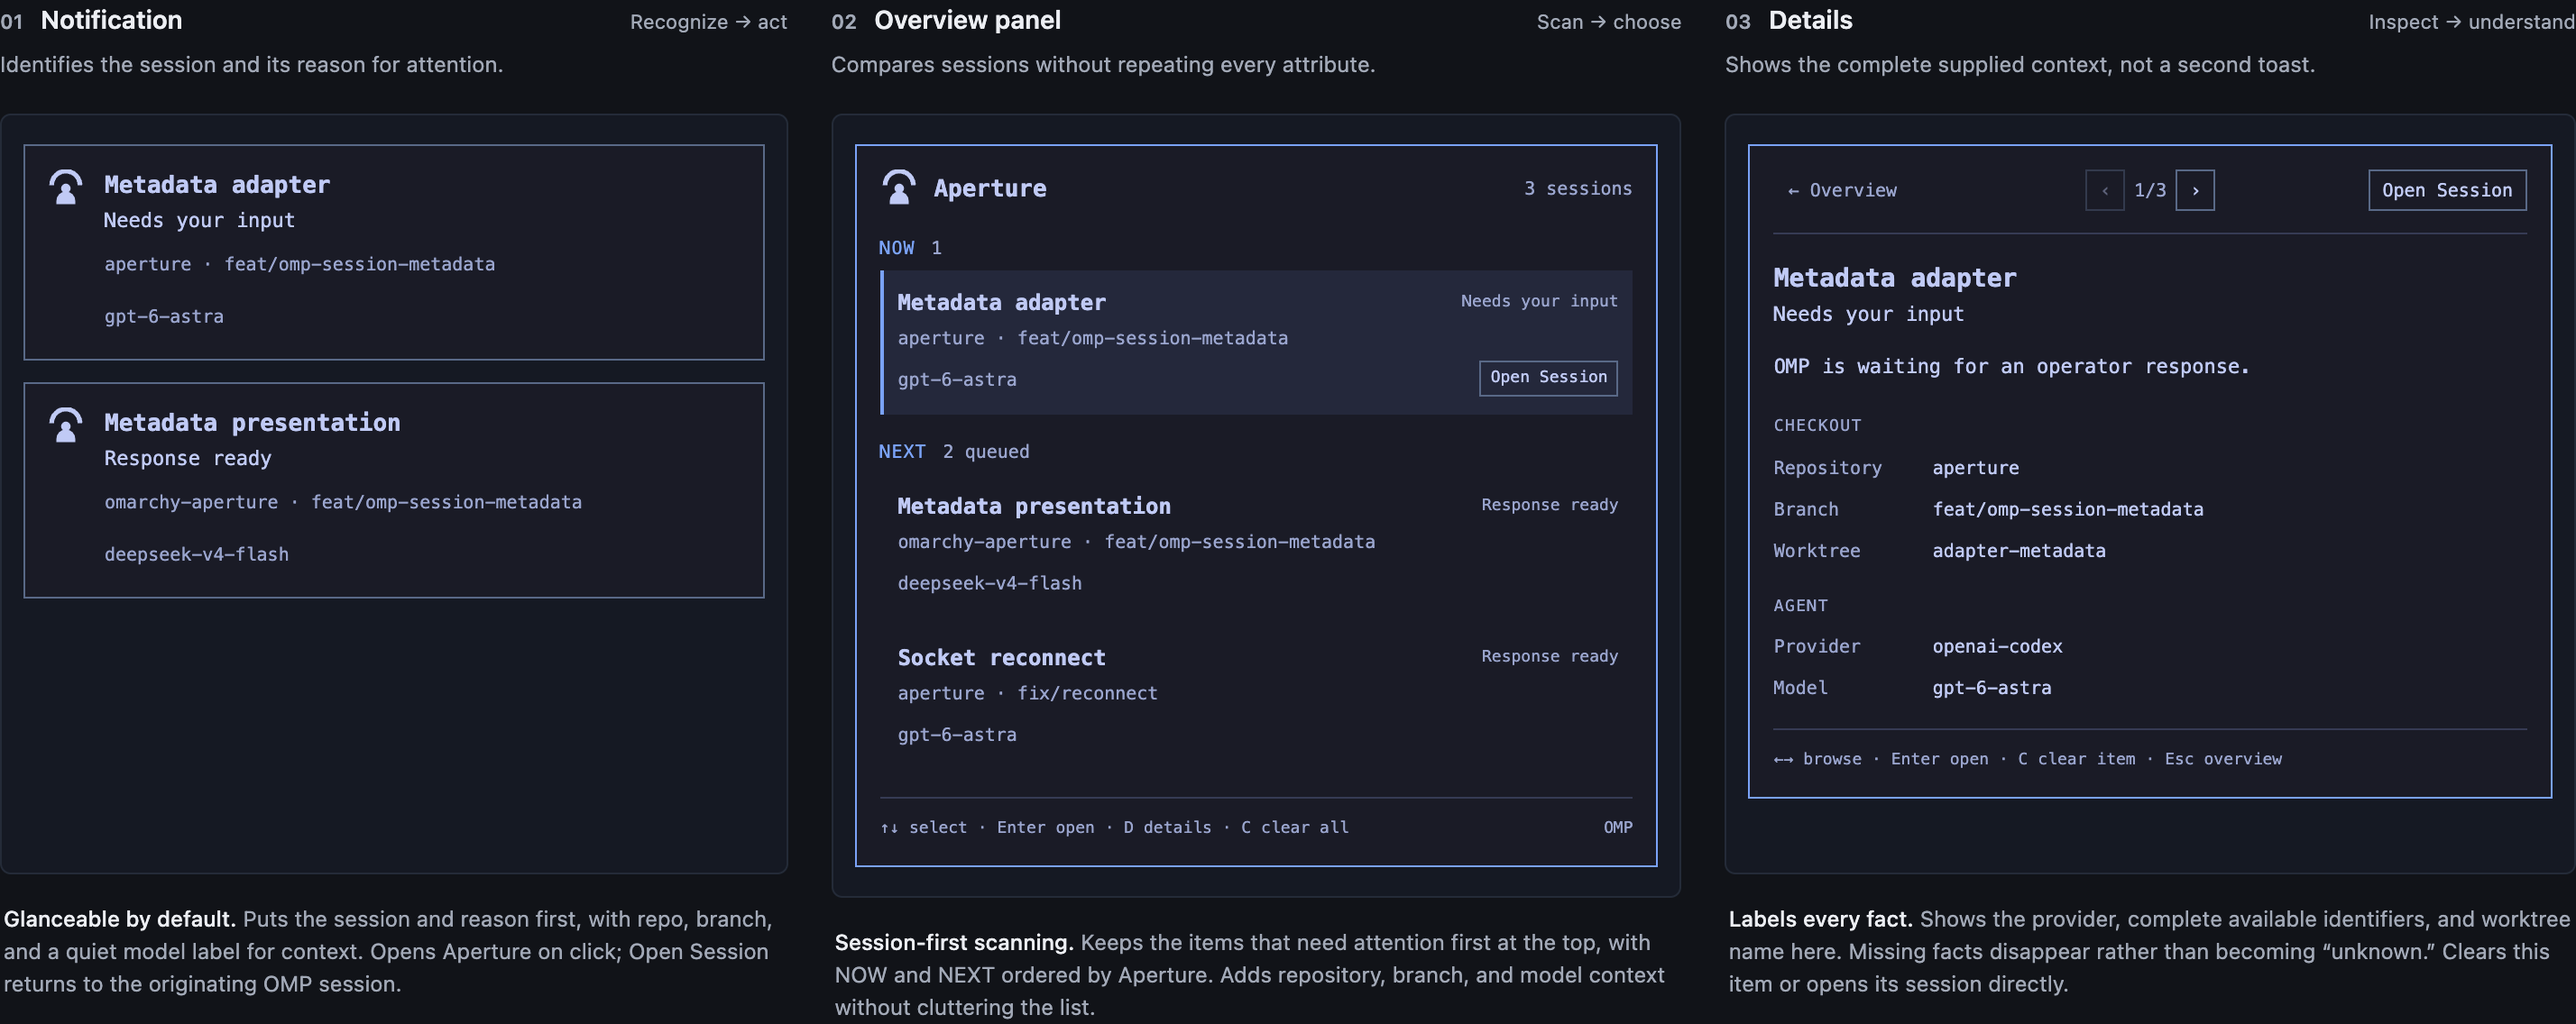
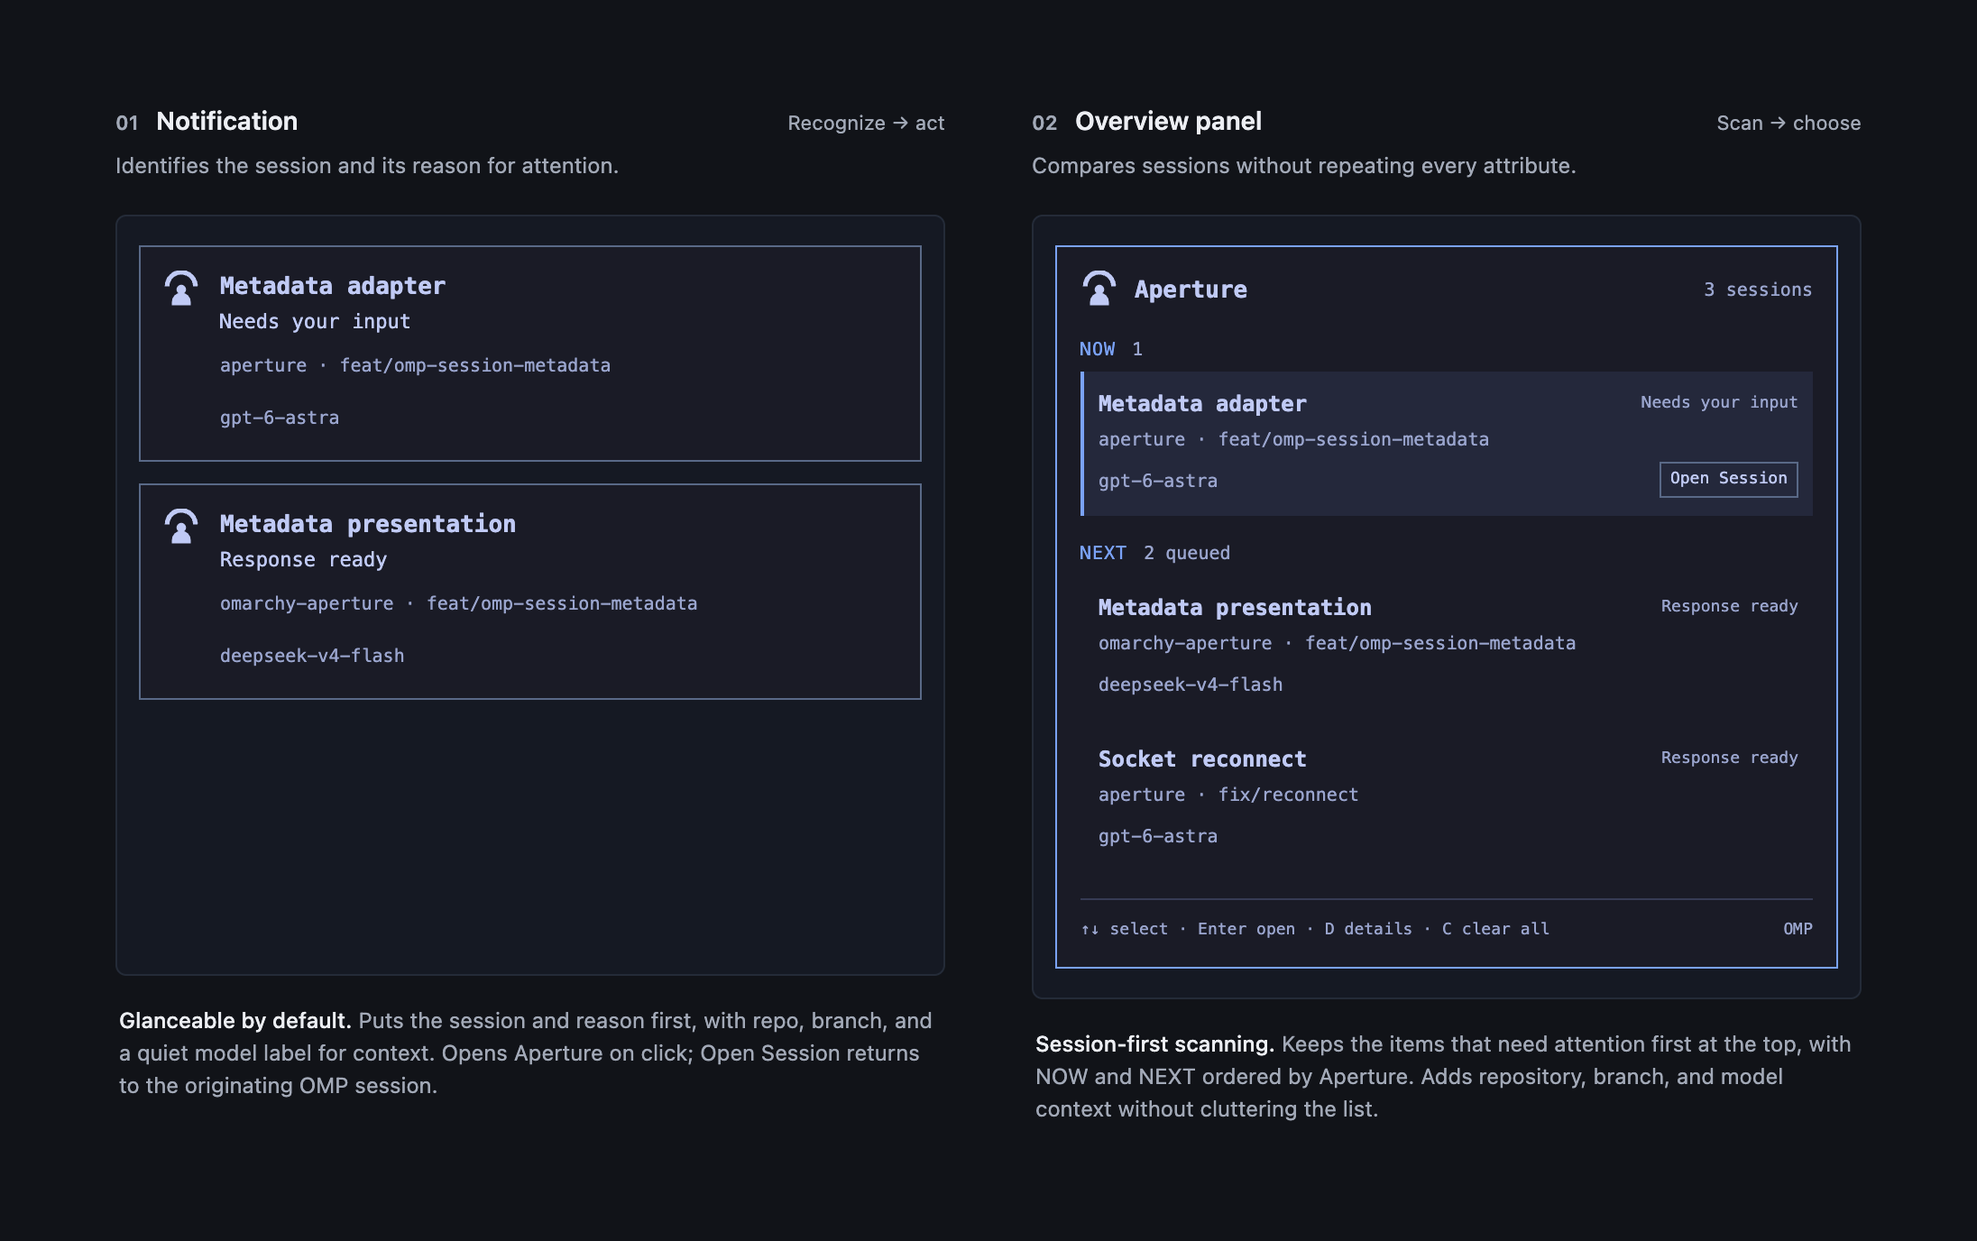
docs: simplify hero and add dark-background breathing room

diff --git a/docs/mockups/session-metadata.html b/docs/mockups/session-metadata.html
@@ -13,6 +13,9 @@
 /* Review-only controls; the board itself is also the documentation illustration. */
 .preview-toolbar{display:flex;align-items:center;flex-wrap:wrap;gap:12px;padding:18px 0;color:var(--quiet);font-size:12px}.preview-toolbar select,.preview-toolbar button{background:var(--control);color:var(--ink);border:1px solid var(--line);border-radius:4px;padding:6px 10px;font:inherit}.preview-toolbar label{display:flex;gap:9px;align-items:center}.keyboard-target{margin-left:auto;font-size:11px}.interactive-view:focus{outline:2px solid var(--blue);outline-offset:4px}.toast,.row{cursor:pointer}.toast:focus-visible{outline:2px solid var(--accent);outline-offset:3px}.details-toolbar{display:grid;grid-template-columns:1fr auto 1fr;justify-items:start;gap:8px}.details-toolbar>button:last-child{justify-self:end}.details-nav{display:flex;align-items:center;gap:5px}.details-nav span{white-space:nowrap}.empty-state{padding:26px 5px;color:var(--muted);font-size:11px}.empty-state strong{display:block;color:var(--text);font-size:13px;margin-bottom:8px}.empty-state p{margin:0}.surface-footer{flex-wrap:wrap}.feedback{min-height:36px}.documentation .review-only{display:none}.documentation main{padding-top:0}.documentation .board{margin-top:16px}.documentation .preview-toolbar{border-bottom:1px solid var(--line)}.documentation .keyboard-target{display:none}.documentation .interactive-view:focus{outline:none}.documentation[data-preview="notification"] .column:not([data-surface="notification"]),.documentation[data-preview="panel"] .column:not([data-surface="panel"]),.documentation[data-preview="details"] .column:not([data-surface="details"]),.documentation[data-preview="privacy"] .column:not([data-surface="details"]){display:none}.documentation:not([data-preview="hero"]) .board{display:block;max-width:480px;margin:24px auto}.documentation:not([data-preview="hero"]) .column{max-width:none}.documentation:not([data-preview="hero"]) .canvas{min-height:0}.documentation .surface-note{display:none}.documentation .purpose{min-height:0}
 .privacy-copy{display:none}.documentation[data-preview="privacy"] .details-copy{display:none}.documentation[data-preview="privacy"] .privacy-copy{display:block}
+.documentation[data-preview="hero"] .column[data-surface="details"]{display:none}
+.documentation[data-preview="hero"] .board{grid-template-columns:repeat(2,minmax(0,460px));justify-content:center;gap:48px;max-width:1096px;padding:56px 64px 64px;margin:24px auto;background:var(--page)}
+@media(max-width:760px){.documentation[data-preview="hero"] .board{grid-template-columns:minmax(0,460px);padding:40px 24px;gap:40px}}
 </style>
 </head>
 <body>

diff --git a/README.md b/README.md
@@ -9,7 +9,7 @@
 [![OMP](https://img.shields.io/badge/OMP-18%2B-0f766e)](https://github.com/can1357/oh-my-pi)
 [![license](https://img.shields.io/badge/license-MIT-6f42c1)](./LICENSE)
 
-<img src="preview.png?v=panel-polish" alt="Approved HTML illustration of Aperture notifications, overview, and Details with session metadata" width="1440">
+<img src="preview.png?v=focused-hero" alt="Approved HTML illustration of Aperture notifications and overview with session metadata" width="1100">
 <p>Your agent sessions, at a glance. Approved HTML illustration; not a runtime screenshot.</p>
 </div>
 
